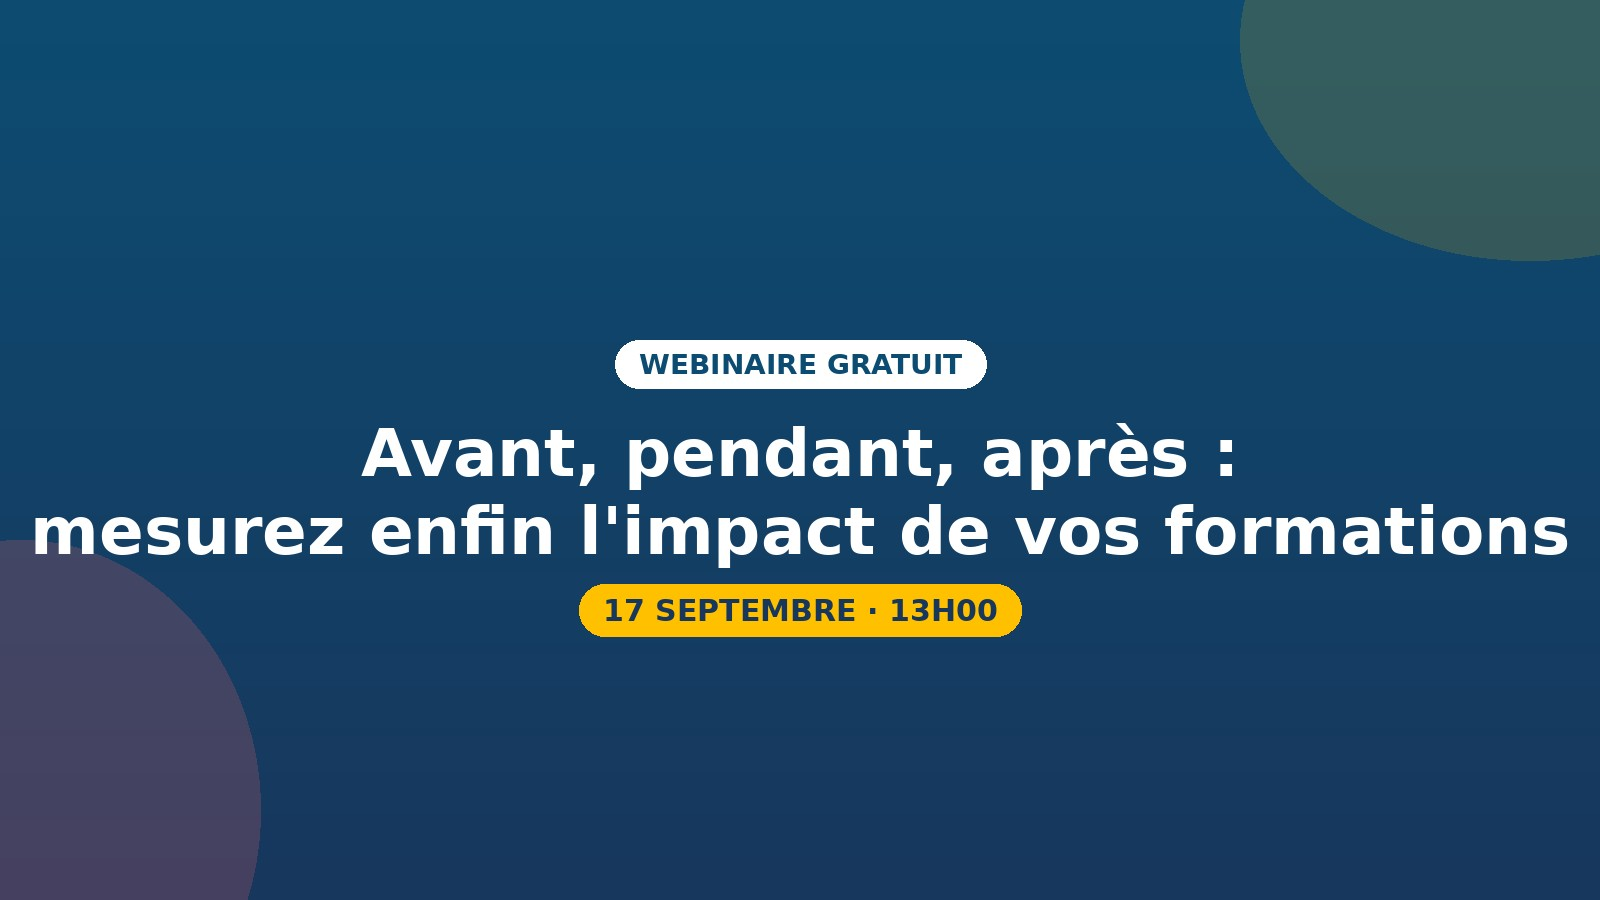
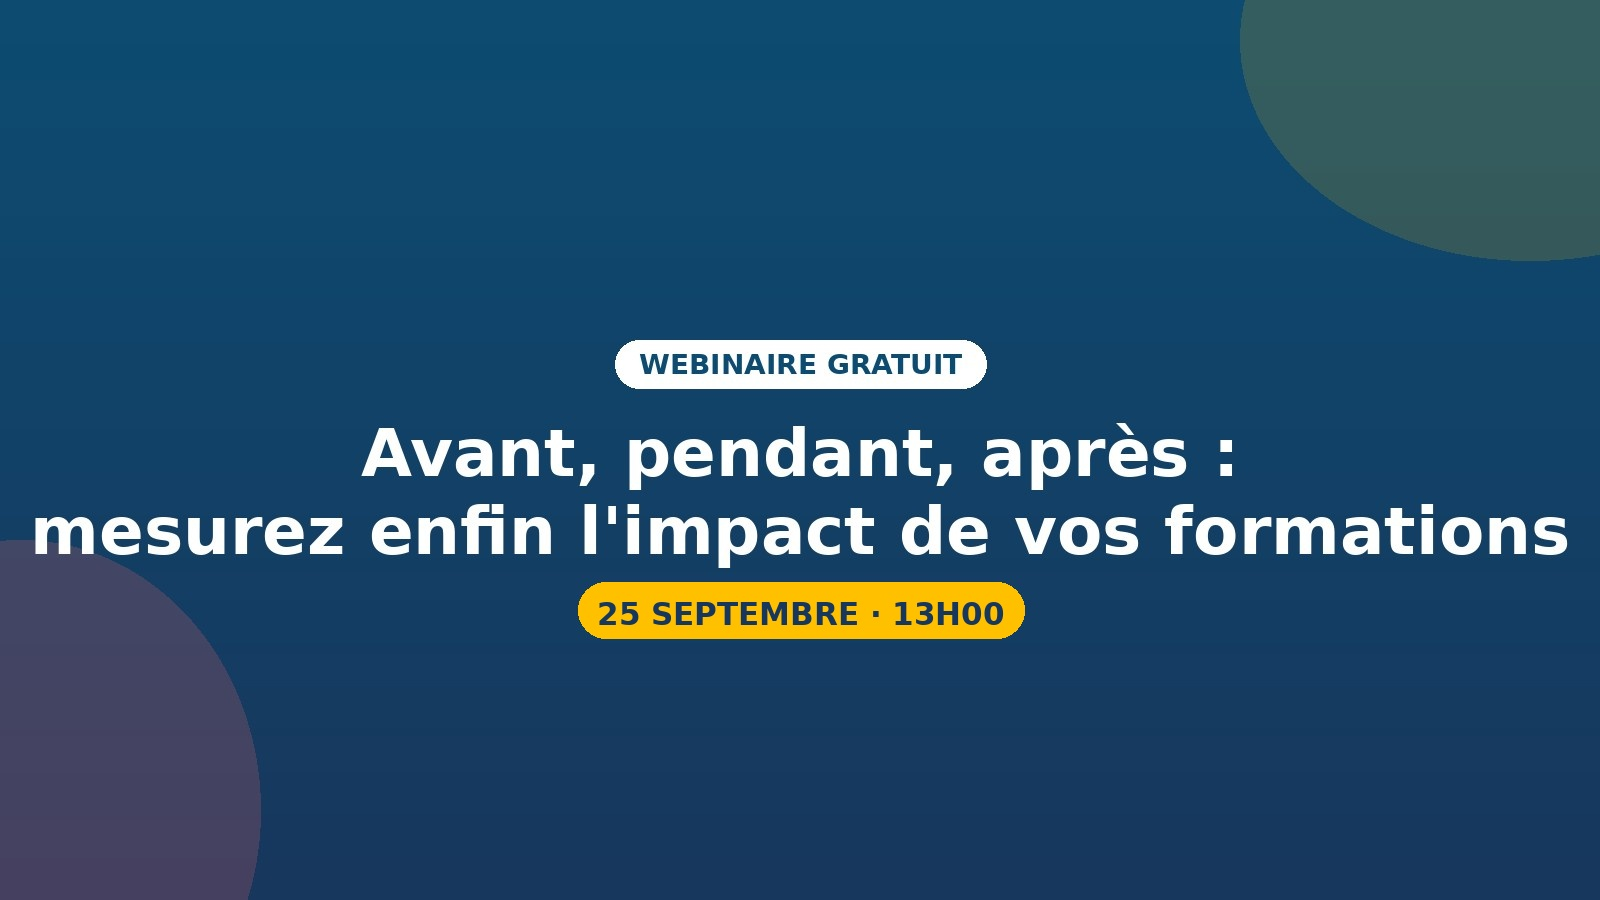
webinaire

Changed region(s): [[0.375, 0.6222, 0.6562, 0.7156]]

diff --git a/resources/webinaires/mesurez-impact-formations-webinaire.html b/resources/webinaires/mesurez-impact-formations-webinaire.html
@@ -154,9 +154,9 @@ Votre navigateur ne permet pas de lire cette vidéo.
 </section>
 
 <section class="section">
-<div class="eyebrow">Au programme du webinaire</div>
-<h2>Pourquoi participer à ce webinaire ?</h2>
-<p class="section-text">Vous découvrirez :</p>
+<div class="eyebrow">Dans ce replay</div>
+<h2>Ce que vous allez découvrir</h2>
+<p class="section-text">Dans ce webinaire, nous vous montrons comment :</p>
 <div class="numbered-list">
 <div class="numbered-item"><div class="num">1</div><p>Comment diffuser un diagnostic comportemental avant une formation pour identifier les vrais besoins des apprenants, plutôt que de deviner le contenu du programme.</p></div>
 <div class="numbered-item"><div class="num">2</div><p>Comment transformer les situations du diagnostic en cas pratiques et supports de débat pendant la session, pour ancrer les échanges dans le réel plutôt que dans la théorie.</p></div>
@@ -167,7 +167,7 @@ Votre navigateur ne permet pas de lire cette vidéo.
 
 <section class="section">
 <div class="eyebrow">Pour qui ?</div>
-<h2>Ce webinaire est fait pour vous si…</h2>
+<h2>Ce replay est fait pour vous si…</h2>
 <div class="grid">
 <article class="card"><div class="ico">🎤</div><h3>Formateurs &amp; consultants indépendants</h3><p>Vous voulez objectiver la valeur de vos interventions et vous différencier sur un marché saturé de contenus similaires.</p></article>
 <article class="card"><div class="ico">🏫</div><h3>Organismes de formation</h3><p>Vous voulez équiper votre catalogue d'un outil de mesure, personnalisable pour chaque client, sans développement technique.</p></article>
@@ -183,7 +183,7 @@ Votre navigateur ne permet pas de lire cette vidéo.
 <div class="timeline-item"><span class="time">5–15 min</span><p>La méthode avant / pendant / après : démonstration du parcours répondant (situations concrètes, profil individuel anonyme) et du dashboard collectif.</p></div>
 <div class="timeline-item"><span class="time">15–25 min</span><p>Cas d'usage concrets sur management, RSE, QVCT — comment un formateur ou une entreprise personnalise le diagnostic sur son propre sujet en quelques heures.</p></div>
 <div class="timeline-item"><span class="time">25–35 min</span><p>Deux façons d'utiliser l'outil : en direct pour une entreprise, ou en outil pour un formateur/OF qui l'intègre à son offre.</p></div>
-<div class="timeline-item"><span class="time">35–45 min</span><p>Questions/réponses et présentation de l'offre de découverte (création de compte gratuite, 50 passations offertes aux inscrits du webinaire).</p></div>
+<div class="timeline-item"><span class="time">35–45 min</span><p>Questions/réponses et présentation de l'offre de découverte d'Into The Shift.</p></div>
 </div>
 </section>
 
